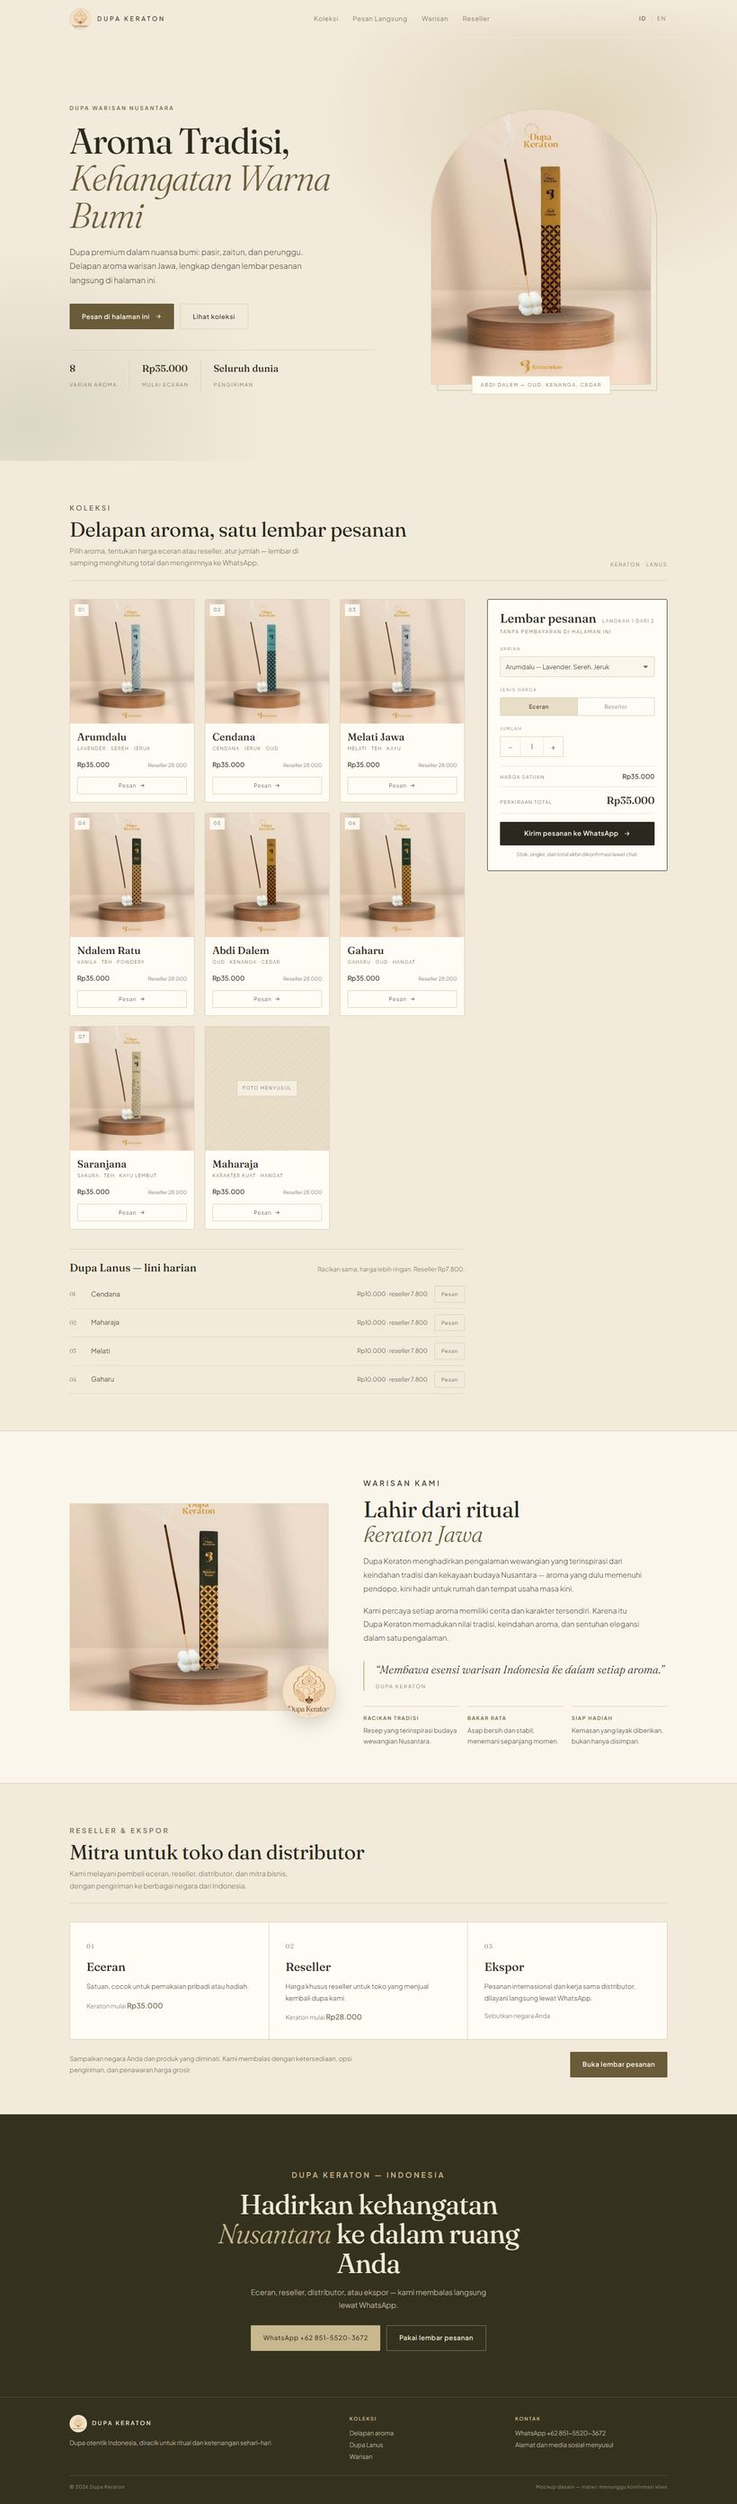
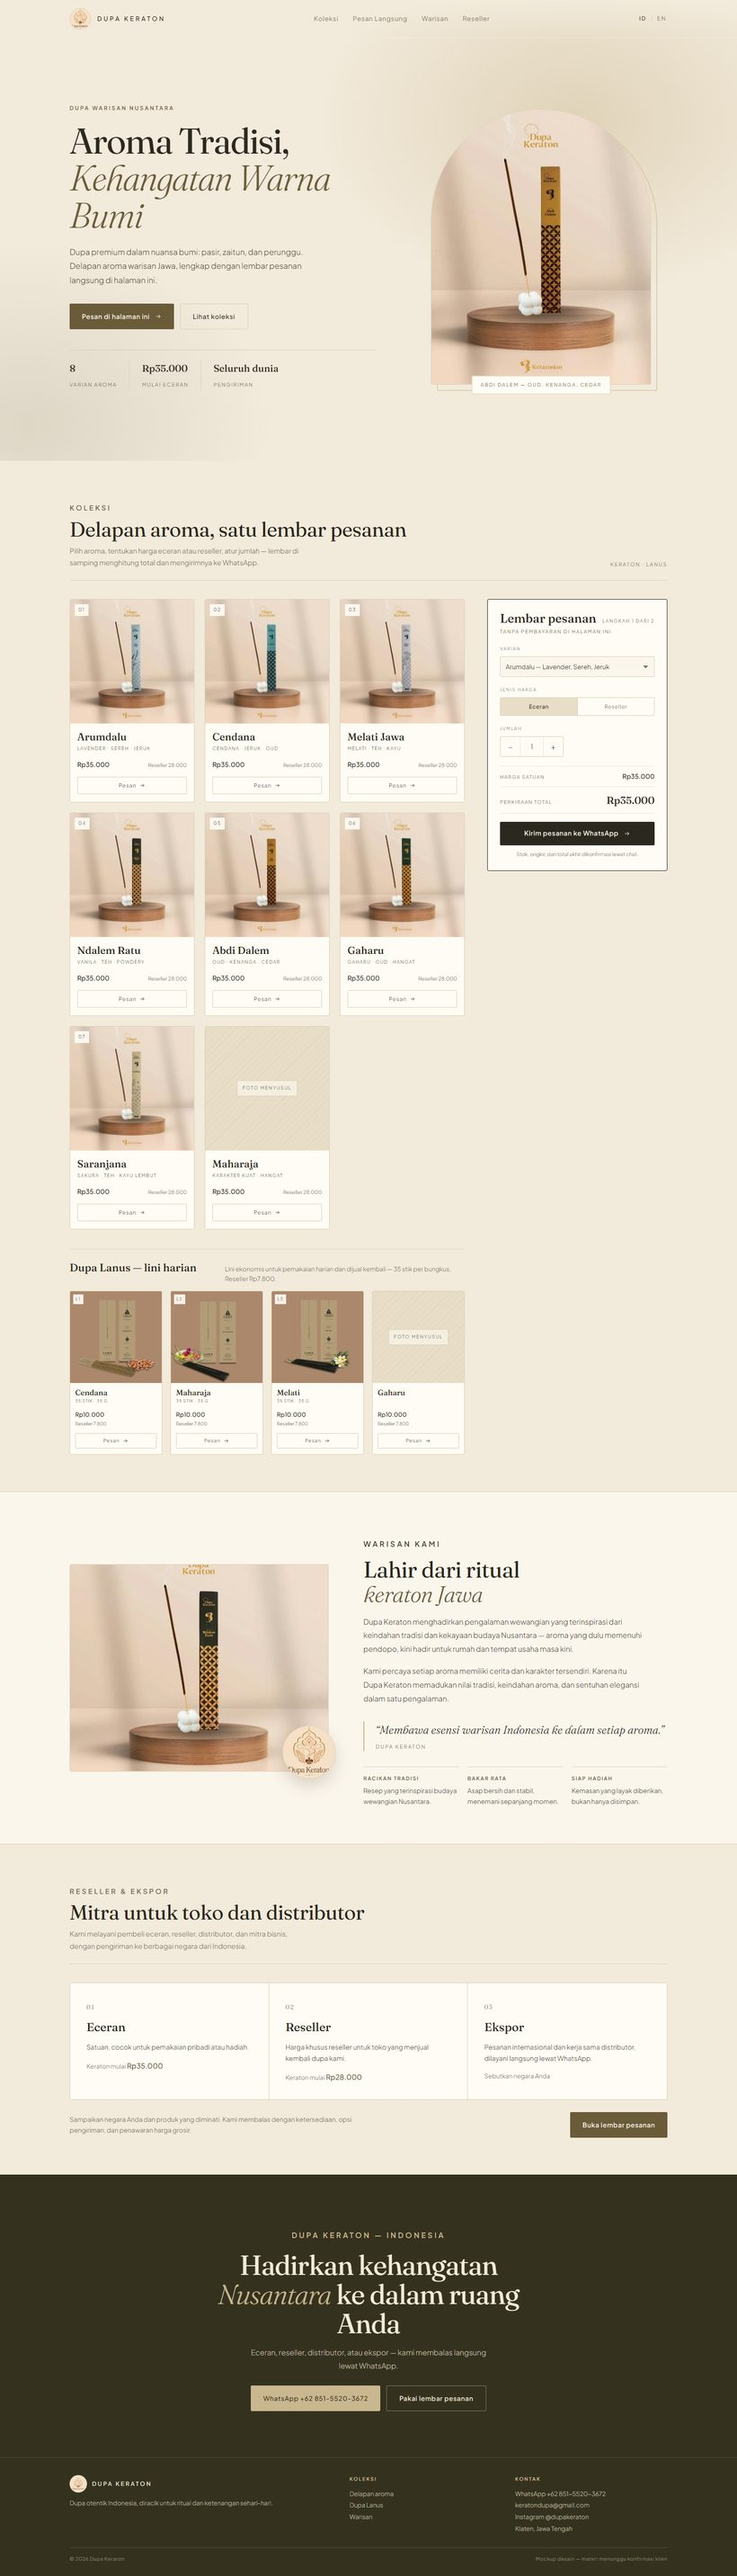
Tambah foto dan kartu produk Lanus Cendana, Maharaja, Melati

diff --git a/05-keraton-bumi/index.html b/05-keraton-bumi/index.html
@@ -160,17 +160,20 @@ select{width:100%;height:40px;border:1px solid var(--line);border-radius:2px;bac
 .sheet.is-flash{animation:flash 1.1s ease}
 @keyframes flash{0%,100%{box-shadow:0 0 0 0 rgba(106,91,57,0)}25%{box-shadow:0 0 0 3px rgba(106,91,57,.22)}}
 
-/* lanus strip */
+/* lanus line */
 .lanus{margin-top:clamp(26px,3.4vw,38px);border-top:1px solid var(--line);padding-top:18px}
-.lanus__head{display:flex;flex-wrap:wrap;gap:8px 16px;align-items:baseline;justify-content:space-between;margin-bottom:8px}
+.lanus__head{display:flex;flex-wrap:wrap;gap:8px 16px;align-items:baseline;justify-content:space-between;margin-bottom:14px}
 .lanus__head h3{font-family:var(--display);font-size:21px;font-weight:500}
-.lanus__head p{font-size:12px;color:var(--muted)}
-.lrow{display:grid;grid-template-columns:28px 1fr auto auto;gap:14px;align-items:center;padding-block:11px;border-bottom:1px solid var(--line-soft)}
-.lrow em{font-family:var(--display);font-style:normal;font-size:11px;color:var(--accent-deep)}
-.lrow span.nm{font-size:13px}
-.lrow .p{font-size:11.5px;color:var(--ink-soft);text-align:right;white-space:nowrap}
-.lrow button{font-size:10px;letter-spacing:.08em;border:1px solid var(--line);border-radius:2px;padding:7px 12px;color:var(--ink-soft);transition:.2s}
-.lrow button:hover{background:var(--ink);border-color:var(--ink);color:var(--paper)}
+.lanus__head p{font-size:12px;color:var(--muted);max-width:54ch;line-height:1.6}
+.lanus__grid{display:grid;grid-template-columns:repeat(4,1fr);gap:clamp(10px,1.3vw,16px)}
+.card--mini .card__body{padding:10px 10px 11px;gap:2px}
+.card--mini h3{font-size:15px}
+.card--mini .card__notes{font-size:8px;letter-spacing:.12em}
+.card--mini .card__price{display:block;padding-top:8px}
+.card--mini .card__price b{display:block;font-size:11.5px}
+.card--mini .card__price span{display:block;font-size:9px;margin-top:1px}
+.card--mini .card__order{height:30px;margin-top:8px;font-size:9.5px}
+.card--mini .card__idx{top:6px;left:6px;font-size:8px;padding:3px 5px}
 
 /* heritage */
 .heritage{background:var(--paper);border-block:1px solid var(--line)}
@@ -264,9 +267,8 @@ dialog::backdrop{background:rgba(43,40,31,.5);backdrop-filter:blur(3px)}
   .hero__acts .btn{flex:1 1 100%}
   .hero__facts div{padding-right:16px;margin-right:16px}
   .foot__grid{grid-template-columns:1fr}
-  .lrow{grid-template-columns:22px 1fr auto;gap:10px}
-  .lrow .p{grid-column:2;text-align:left}
-  .lrow button{grid-row:1;grid-column:3}
+  .lanus__grid{grid-template-columns:repeat(2,1fr)}
+  .card--mini .card__media{aspect-ratio:1/1}
   .sec-head{flex-direction:column;align-items:flex-start;gap:6px}
 }
 @media (prefers-reduced-motion:reduce){
@@ -411,12 +413,38 @@ dialog::backdrop{background:rgba(43,40,31,.5);backdrop-filter:blur(3px)}
           <div class="lanus">
             <div class="lanus__head">
               <h3 data-en="Dupa Lanus — everyday line">Dupa Lanus &mdash; lini harian</h3>
-              <p data-en="Same craft, lighter price. Reseller 7.800.">Racikan sama, harga lebih ringan. Reseller Rp7.800.</p>
+              <p data-en="Economical line for daily use and resale — 35 sticks per pack. Reseller 7.800.">Lini ekonomis untuk pemakaian harian dan dijual kembali &mdash; 35 stik per bungkus. Reseller Rp7.800.</p>
             </div>
-            <div class="lrow"><em>01</em><span class="nm">Cendana</span><span class="p">Rp10.000 &middot; reseller 7.800</span><button type="button" data-pick="Cendana" data-line="lanus">Pesan</button></div>
-            <div class="lrow"><em>02</em><span class="nm">Maharaja</span><span class="p">Rp10.000 &middot; reseller 7.800</span><button type="button" data-pick="Maharaja" data-line="lanus">Pesan</button></div>
-            <div class="lrow"><em>03</em><span class="nm">Melati</span><span class="p">Rp10.000 &middot; reseller 7.800</span><button type="button" data-pick="Melati" data-line="lanus">Pesan</button></div>
-            <div class="lrow"><em>04</em><span class="nm">Gaharu</span><span class="p">Rp10.000 &middot; reseller 7.800</span><button type="button" data-pick="Gaharu" data-line="lanus">Pesan</button></div>
+            <div class="lanus__grid">
+              <article class="card card--mini">
+                <div class="card__media"><span class="card__idx">L1</span><img src="../assets/lanus-cendana.jpg" alt="Dus Dupa Lanus Cendana dengan batang dupa dan serpihan kayu cendana" width="1000" height="1000"></div>
+                <div class="card__body"><h3>Cendana</h3><p class="card__notes">35 stik &middot; 35 g</p>
+                  <div class="card__price"><b>Rp10.000</b><span>Reseller 7.800</span></div>
+                  <button class="card__order" type="button" data-pick="Cendana" data-line="lanus">Pesan
+                    <svg viewBox="0 0 24 24" fill="none" stroke="currentColor" stroke-width="1.8" aria-hidden="true"><path d="M5 12h14M13 6l6 6-6 6"/></svg></button></div>
+              </article>
+              <article class="card card--mini">
+                <div class="card__media"><span class="card__idx">L2</span><img src="../assets/lanus-maharaja.jpg" alt="Dus Dupa Lanus Maharaja dengan batang dupa dan rangkaian bunga di atas janur" width="1000" height="1000"></div>
+                <div class="card__body"><h3>Maharaja</h3><p class="card__notes">35 stik &middot; 35 g</p>
+                  <div class="card__price"><b>Rp10.000</b><span>Reseller 7.800</span></div>
+                  <button class="card__order" type="button" data-pick="Maharaja" data-line="lanus">Pesan
+                    <svg viewBox="0 0 24 24" fill="none" stroke="currentColor" stroke-width="1.8" aria-hidden="true"><path d="M5 12h14M13 6l6 6-6 6"/></svg></button></div>
+              </article>
+              <article class="card card--mini">
+                <div class="card__media"><span class="card__idx">L3</span><img src="../assets/lanus-melati.jpg" alt="Dus Dupa Lanus Melati dengan batang dupa dan bunga melati" width="1000" height="1000"></div>
+                <div class="card__body"><h3>Melati</h3><p class="card__notes">35 stik &middot; 35 g</p>
+                  <div class="card__price"><b>Rp10.000</b><span>Reseller 7.800</span></div>
+                  <button class="card__order" type="button" data-pick="Melati" data-line="lanus">Pesan
+                    <svg viewBox="0 0 24 24" fill="none" stroke="currentColor" stroke-width="1.8" aria-hidden="true"><path d="M5 12h14M13 6l6 6-6 6"/></svg></button></div>
+              </article>
+              <article class="card card--mini">
+                <div class="card__media tile-empty"><span>Foto menyusul</span></div>
+                <div class="card__body"><h3>Gaharu</h3>
+                  <div class="card__price"><b>Rp10.000</b><span>Reseller 7.800</span></div>
+                  <button class="card__order" type="button" data-pick="Gaharu" data-line="lanus">Pesan
+                    <svg viewBox="0 0 24 24" fill="none" stroke="currentColor" stroke-width="1.8" aria-hidden="true"><path d="M5 12h14M13 6l6 6-6 6"/></svg></button></div>
+              </article>
+            </div>
           </div>
         </div>
 
